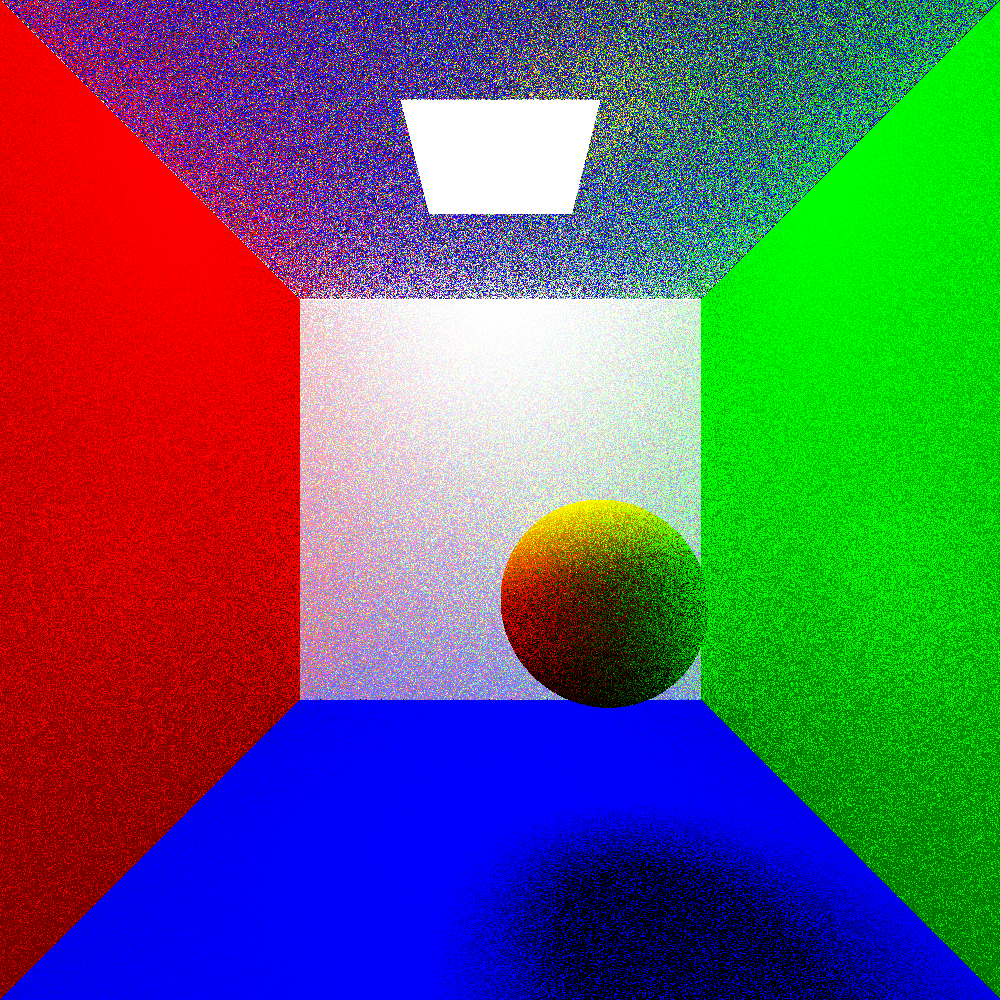
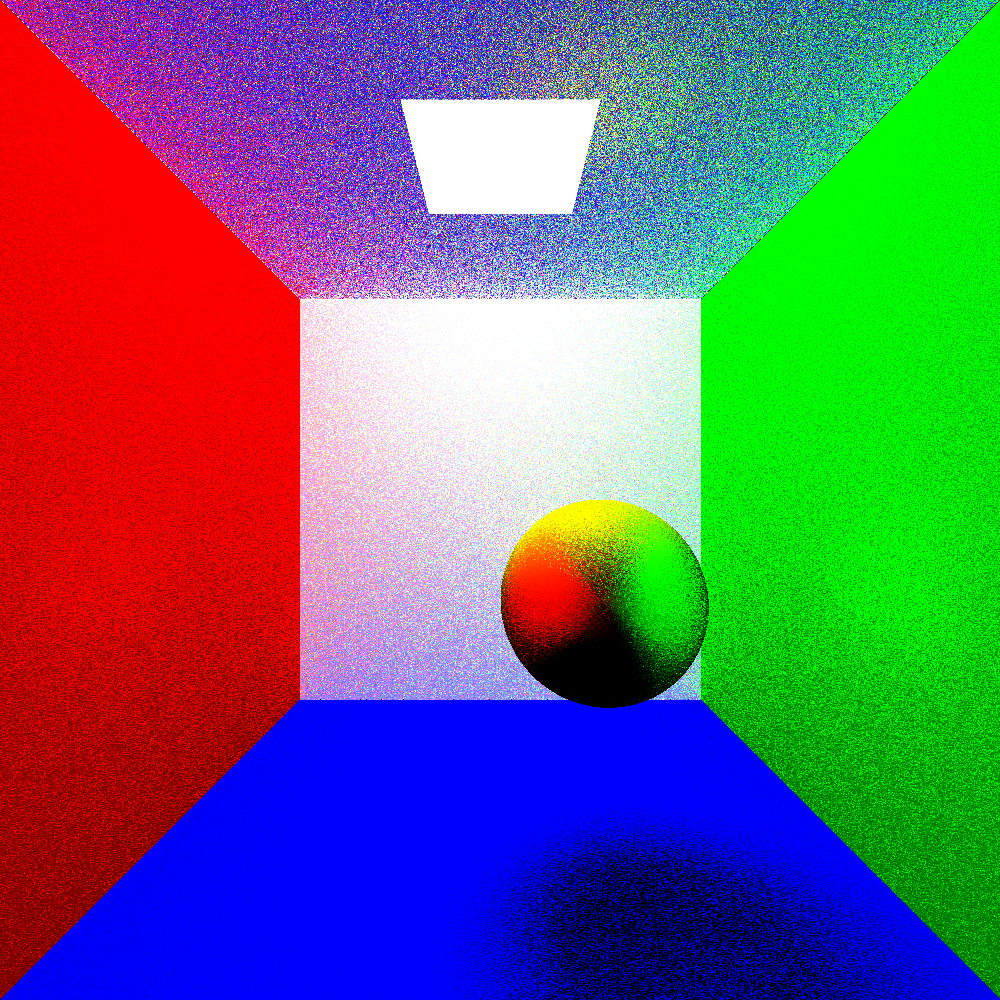
Return color in correct { }

diff --git a/Project/Improved-Ray-Tracer/src/Scene.cpp b/Project/Improved-Ray-Tracer/src/Scene.cpp
@@ -211,15 +211,14 @@ vec3 Scene::lighting(const vec3& _point, const vec3& _normal, const vec3& _view,
         color += _material.color * trace(reflected_ray, _depth + 1, false)*reflected;
         color += _material.color * trace(refracted_ray, _depth + 1, false)*refracted;
       }
-    } else if (_material.mirror) {
+    } else if (_material.mirror)
+    {
       //for specular, trace a new ray but reflected with respect to normal
       vec3 reflected_ray_dir = reflect(-_view, _normal);
+      Ray  reflected_ray     = Ray(point, reflected_ray_dir);
 
-      //take a vector only in the semi-space in normal direction, otherwise a ray can be traced inside objects
-      // reflected_ray_dir = dot(reflected_ray_dir, _normal) < 0 ? -reflected_ray_dir : reflected_ray_dir;
-      Ray reflected_ray = Ray(point, reflected_ray_dir);
-
-      if(shadow_rays){
+      if(shadow_rays)
+      {
         return trace(reflected_ray, _depth + 1, true);
       }
 
@@ -272,12 +271,11 @@ vec3 Scene::lighting(const vec3& _point, const vec3& _normal, const vec3& _view,
       random_reflected_ray_dir      = dot(random_reflected_ray_dir, _normal) < 0 ? -random_reflected_ray_dir : random_reflected_ray_dir;
       vec3 color_traced             = trace(Ray(point, random_reflected_ray_dir), _depth + 1, false);
 
-      indirect_illumination += 2 * color_traced * dot(random_reflected_ray_dir, _normal);
+      indirect_illumination += _material.color * 2 * color_traced * dot(random_reflected_ray_dir, _normal);
 
-      color += _material.color * indirect_illumination;
-
-      return color;
+      color +=  indirect_illumination;
     }
+    return color;
 }
 
 void Scene::read(const std::string &_filename)
